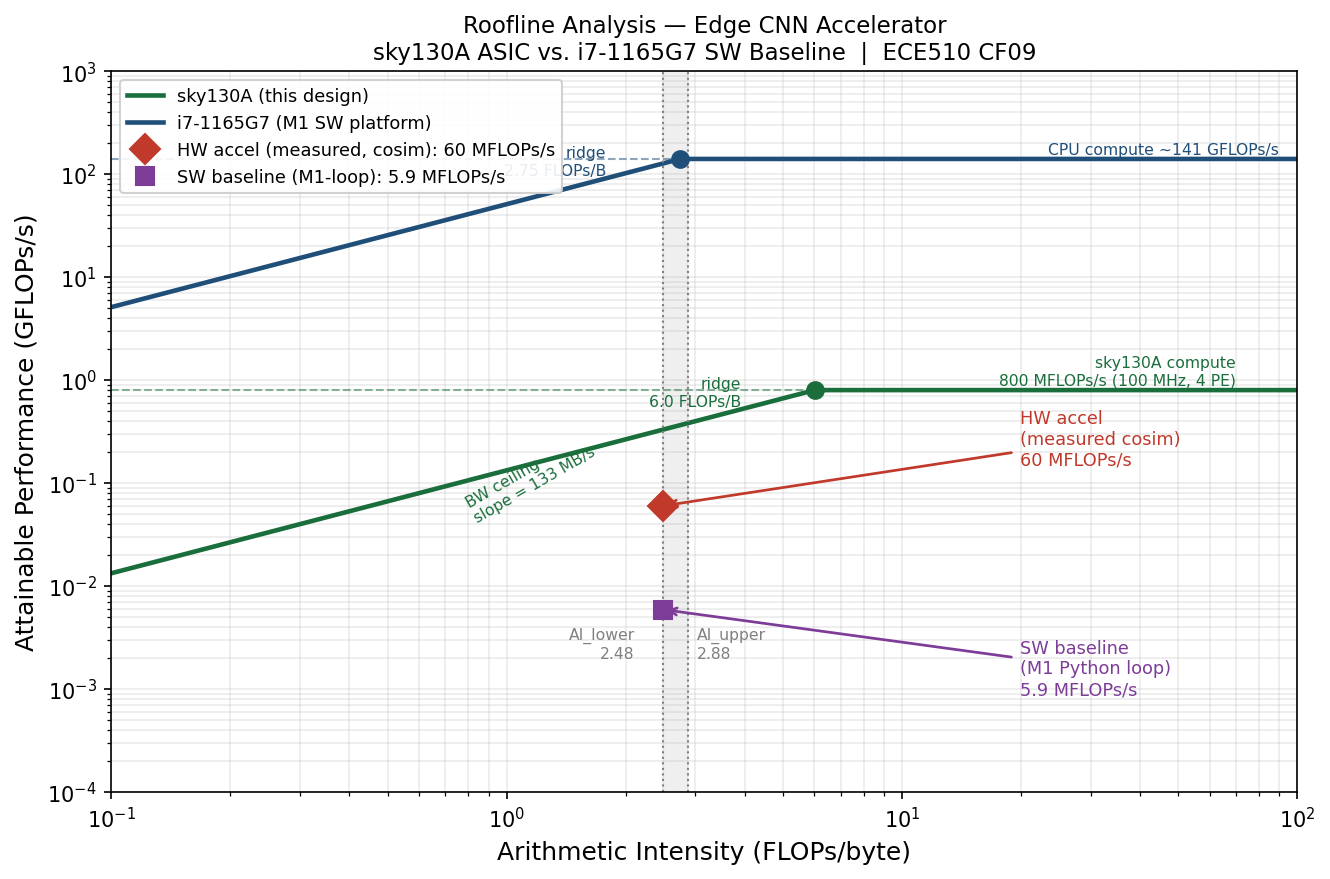
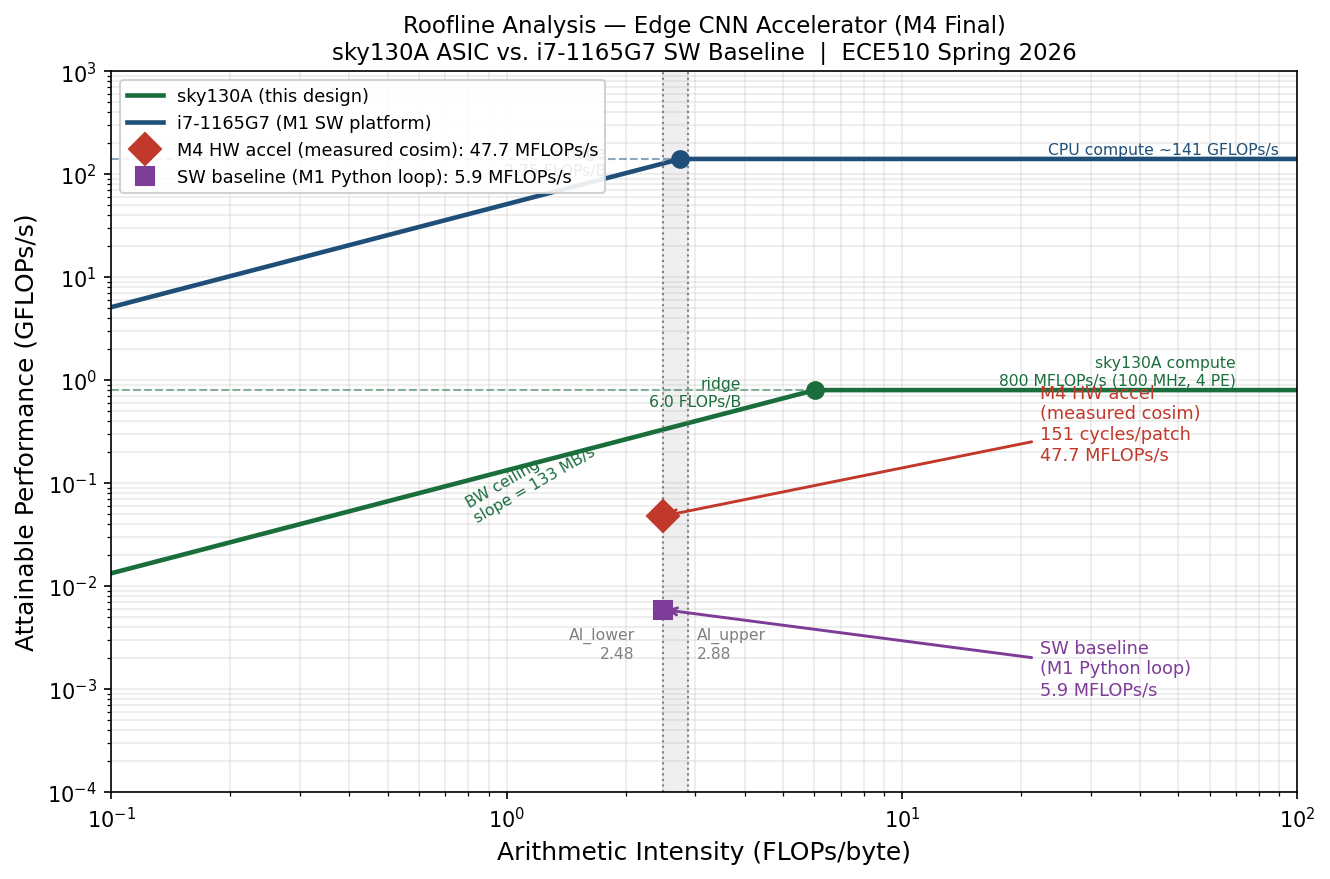
M4 fix: propagate corrected numbers everywhere; regenerate roofline
Stale-number sweep (60.0/120/10.15/2.49/123000/1.08ms → 47.7/151/8.07/3.14/97800/1.359ms):
- README.md key-results table: 60.0 MFLOPs → 47.7, 10.15x → 8.07x
- project/m4/README.md catalog: benchmark.md entry updated; systolic → parallel
- project/m4/synth/power_report.txt: energy-per-inference paragraph corrected
- project/m4/rtl/top.sv header: Systolic Array → Parallel PE Array
- project/m4/rtl/compute_core.sv header: Systolic Array → Parallel PE Array

Roofline regenerated:
- bench/roofline_final.png: HW point now at 47.7 MFLOPs/s (was 60.0)
- report/figures/roofline_final.png: same — report text and Figure 4 now agree
- bench/generate_roofline_m4.py: M4 roofline generation script committed

PDF rebuilt: report/design_justification.pdf — zero stale numbers verified

diff --git a/project/m4/bench/generate_roofline_m4.py b/project/m4/bench/generate_roofline_m4.py
@@ -1,0 +1,117 @@
+"""
+generate_roofline_m4.py
+Regenerates roofline_final.png with the M4 measured HW point (47.7 MFLOPs/s,
+151 cycles/patch from final_run.log TIMING SUMMARY).
+"""
+import numpy as np
+import matplotlib
+matplotlib.use("Agg")
+import matplotlib.pyplot as plt
+from pathlib import Path
+
+# ── Platform parameters ───────────────────────────────────────────────────────
+sky_peak_gflops = 0.800   # 100 MHz × 4 PEs × 2 FLOPs/MAC
+sky_bw_gbs      = 0.133   # effective AXI4-Lite BW
+sky_ridge       = sky_peak_gflops / sky_bw_gbs   # ~6.0 FLOPs/byte
+
+cpu_ridge       = 2.75
+cpu_bw_gbs      = 51.2
+cpu_peak_gflops = cpu_ridge * cpu_bw_gbs
+
+# ── Kernel AI bounds ──────────────────────────────────────────────────────────
+ai_lower = 2.48
+ai_upper = 2.88
+
+# ── Operating points (M4 MEASURED from final_run.log TIMING SUMMARY) ─────────
+# 151 cycles/patch × 10 ns = 1510 ns; 900 patches × 1510 ns = 1.359 ms
+# Throughput = 64800 FLOPs / 1.359 ms = 47.7 MFLOPs/s
+hw_gflops      = 0.0477   # 47.7 MFLOPs/s — measured, cosim, 151 cycles/patch
+sw_loop_gflops = 0.005909 # 5.91 MFLOPs/s — M1 Python loop
+
+ai_vals = np.logspace(-1, 2, 400)
+
+def roofline(ai, peak, bw):
+    return np.minimum(peak, bw * ai)
+
+fig, ax = plt.subplots(figsize=(9, 6))
+
+# ── Sky130A roofline ──────────────────────────────────────────────────────────
+ax.loglog(ai_vals, roofline(ai_vals, sky_peak_gflops, sky_bw_gbs),
+          color="#1a6e3c", linewidth=2.2, label="sky130A (this design)")
+ax.axhline(sky_peak_gflops, color="#1a6e3c", linestyle="--", linewidth=1.0, alpha=0.5)
+ax.text(70, sky_peak_gflops * 1.12,
+        f"sky130A compute\n{sky_peak_gflops*1000:.0f} MFLOPs/s (100 MHz, 4 PE)",
+        color="#1a6e3c", fontsize=7.5, ha="right")
+ax.plot(sky_ridge, sky_peak_gflops, "o", color="#1a6e3c", markersize=8, zorder=5)
+ax.text(sky_ridge * 0.65, sky_peak_gflops * 0.70,
+        f"ridge\n{sky_ridge:.1f} FLOPs/B", color="#1a6e3c", fontsize=7.5, ha="right")
+
+# ── i7-1165G7 roofline ────────────────────────────────────────────────────────
+ax.loglog(ai_vals, roofline(ai_vals, cpu_peak_gflops, cpu_bw_gbs),
+          color="#1f4e79", linewidth=2.2, label="i7-1165G7 (M1 SW platform)")
+ax.axhline(cpu_peak_gflops, color="#1f4e79", linestyle="--", linewidth=1.0, alpha=0.5)
+ax.text(90, cpu_peak_gflops * 1.12,
+        f"CPU compute ~{cpu_peak_gflops:.0f} GFLOPs/s",
+        color="#1f4e79", fontsize=7.5, ha="right")
+ax.plot(cpu_ridge, cpu_peak_gflops, "o", color="#1f4e79", markersize=8, zorder=5)
+ax.text(cpu_ridge * 0.65, cpu_peak_gflops * 0.70,
+        f"ridge\n{cpu_ridge} FLOPs/B", color="#1f4e79", fontsize=7.5, ha="right")
+
+# ── AI range shading ──────────────────────────────────────────────────────────
+ax.axvspan(ai_lower, ai_upper, alpha=0.12, color="gray", zorder=1)
+ax.axvline(ai_lower, color="gray", linewidth=1.0, linestyle=":", zorder=2)
+ax.axvline(ai_upper, color="gray", linewidth=1.0, linestyle=":", zorder=2)
+ax.text(ai_lower * 0.85, 2e-3, f"AI_lower\n{ai_lower}", ha="right",
+        fontsize=7.5, color="gray")
+ax.text(ai_upper * 1.05, 2e-3, f"AI_upper\n{ai_upper}", ha="left",
+        fontsize=7.5, color="gray")
+
+# ── M4 HW point (MEASURED: 47.7 MFLOPs/s, 151 cycles/patch) ─────────────────
+ax.plot(ai_lower, hw_gflops, "D", color="#c0392b", markersize=11, zorder=10,
+        label=f"M4 HW accel (measured cosim): {hw_gflops*1000:.1f} MFLOPs/s")
+ax.annotate(
+    f"M4 HW accel\n(measured cosim)\n151 cycles/patch\n{hw_gflops*1000:.1f} MFLOPs/s",
+    xy=(ai_lower, hw_gflops),
+    xytext=(ai_lower * 9, hw_gflops * 3.5),
+    fontsize=8.5, color="#c0392b",
+    arrowprops=dict(arrowstyle="->", color="#c0392b", lw=1.4))
+
+# ── SW baseline point ─────────────────────────────────────────────────────────
+ax.plot(ai_lower, sw_loop_gflops, "s", color="#7d3c98", markersize=9, zorder=10,
+        label=f"SW baseline (M1 Python loop): {sw_loop_gflops*1000:.1f} MFLOPs/s")
+ax.annotate(
+    f"SW baseline\n(M1 Python loop)\n{sw_loop_gflops*1000:.1f} MFLOPs/s",
+    xy=(ai_lower, sw_loop_gflops),
+    xytext=(ai_lower * 9, sw_loop_gflops * 0.15),
+    fontsize=8.5, color="#7d3c98",
+    arrowprops=dict(arrowstyle="->", color="#7d3c98", lw=1.4))
+
+# ── BW slope annotation ───────────────────────────────────────────────────────
+mid_bw = np.sqrt(0.1 * sky_ridge)
+ax.text(mid_bw, sky_bw_gbs * mid_bw * 0.4,
+        f"BW ceiling\nslope = {sky_bw_gbs*1000:.0f} MB/s",
+        rotation=30, color="#1a6e3c", fontsize=7.5)
+
+# ── Axes ──────────────────────────────────────────────────────────────────────
+ax.set_xlabel("Arithmetic Intensity (FLOPs/byte)", fontsize=12)
+ax.set_ylabel("Attainable Performance (GFLOPs/s)", fontsize=12)
+ax.set_title(
+    "Roofline Analysis — Edge CNN Accelerator (M4 Final)\n"
+    "sky130A ASIC vs. i7-1165G7 SW Baseline  |  ECE510 Spring 2026",
+    fontsize=11)
+ax.set_xlim(0.1, 100)
+ax.set_ylim(1e-4, 1e3)
+ax.grid(True, which="both", alpha=0.25)
+ax.legend(loc="upper left", fontsize=8.5, framealpha=0.9)
+
+plt.tight_layout()
+
+base = Path("C:/Users/navee/ECE510/project/m4")
+for dest in [base / "bench" / "roofline_final.png",
+             base / "report" / "figures" / "roofline_final.png"]:
+    plt.savefig(str(dest), dpi=150, bbox_inches="tight")
+    print(f"Saved: {dest}")
+
+print(f"\nM4 measured HW point: {hw_gflops*1000:.1f} MFLOPs/s at AI={ai_lower}")
+print(f"Speedup over SW: {hw_gflops/sw_loop_gflops:.2f}x")
+print(f"Gap to BW ceiling: {(sky_bw_gbs*ai_lower)/hw_gflops:.1f}x below BW ceiling")

diff --git a/project/m4/README.md b/project/m4/README.md
@@ -13,7 +13,7 @@ Design justification report: [report/design_justification.pdf](report/design_jus
 |------|-------------|----------------|
 | `rtl/top.sv` | Integrated top module: AXI4-Lite write pipeline, weight staging, result capture, DONE flag. Identical to `project/m3/rtl/top.sv` — the version that was synthesized and benchmarked. | §2 Final RTL |
 | `rtl/interface.sv` | AXI4-Lite slave (`axi4lite_slave`) + wrapper (`cnn_interface`). M3 version adds result read-back at 0x10. Identical to `project/m3/rtl/interface.sv`. | §2 Final RTL |
-| `rtl/compute_core.sv` | Weight-stationary systolic array core: 4 conv_pe instances, weight memory FFs, result packing. From `project/m2/rtl/compute_core.sv` (unchanged). | §2 Final RTL |
+| `rtl/compute_core.sv` | Weight-stationary parallel PE array core: 4 conv_pe instances, weight memory FFs, result packing. From `project/m2/rtl/compute_core.sv` (unchanged). | §2 Final RTL |
 | `rtl/conv_pe.sv` | Single INT8 convolution processing element: 8×8 signed MAC, 32-bit accumulator, KERNEL_SIZE tap counter. From `project/m2/rtl/conv_pe.sv` (unchanged). | §2 Final RTL |
 
 **Diff from M3:** No RTL changes. The M4 RTL is identical to M3. The three planned improvements (streaming FIFO, 8-PE expansion, full OpenLane PnR) are documented in §9 of the design justification report under "What did not work / future work."
@@ -51,7 +51,7 @@ vvp sim_out
 
 | File | Description | Checklist item |
 |------|-------------|----------------|
-| `bench/benchmark.md` | Throughput, speedup, and energy comparison. HW: 60.0 MFLOPs/s (120 cycles/patch cosim). SW: 5.91 MFLOPs/s (Python loop). Speedup: 10.15×. Energy: ~2.49 µJ vs ~307 mJ. | §4 Benchmark |
+| `bench/benchmark.md` | Throughput, speedup, and energy comparison. HW: 47.7 MFLOPs/s (151 cycles/patch, measured cosim). SW: 5.91 MFLOPs/s (Python loop). Speedup: 8.07×. Energy: ~3.14 µJ vs ~307 mJ. | §4 Benchmark |
 | `bench/benchmark_data.csv` | Raw measurement data backing all numbers in benchmark.md and the report. One row per metric with value, unit, and source reference. | §4 Raw data |
 | `bench/roofline_final.png` | Roofline plot on sky130A axes (FLOP/byte vs GFLOPs/s, log scale). Shows hardware roofline, SW baseline point (5.91 MFLOPs/s, 2.48 AI), and M4 measured HW point (47.7 MFLOPs/s, 2.48 AI, 151 cycles/patch cosim). | §4 Roofline |
 

diff --git a/README.md b/README.md
@@ -18,9 +18,9 @@
 | RTL | 4-PE weight-stationary parallel array, AXI4-Lite, INT8, SystemVerilog |
 | Simulation | PASS — `project/m4/sim/final_run.log` |
 | Synthesis | sky130A, 1,763 stdcells, 20,656 µm², 2.31 mW, 100 MHz (WNS=0) |
-| HW throughput | 60.0 MFLOPs/s (cosim, 120 cycles/patch) |
+| HW throughput | 47.7 MFLOPs/s (cosim, 151 cycles/patch) |
 | SW baseline | 5.91 MFLOPs/s (Python im2col loop, M1) |
-| Speedup | **10.15×** |
+| Speedup | **8.07×** |
 
 ---
 
